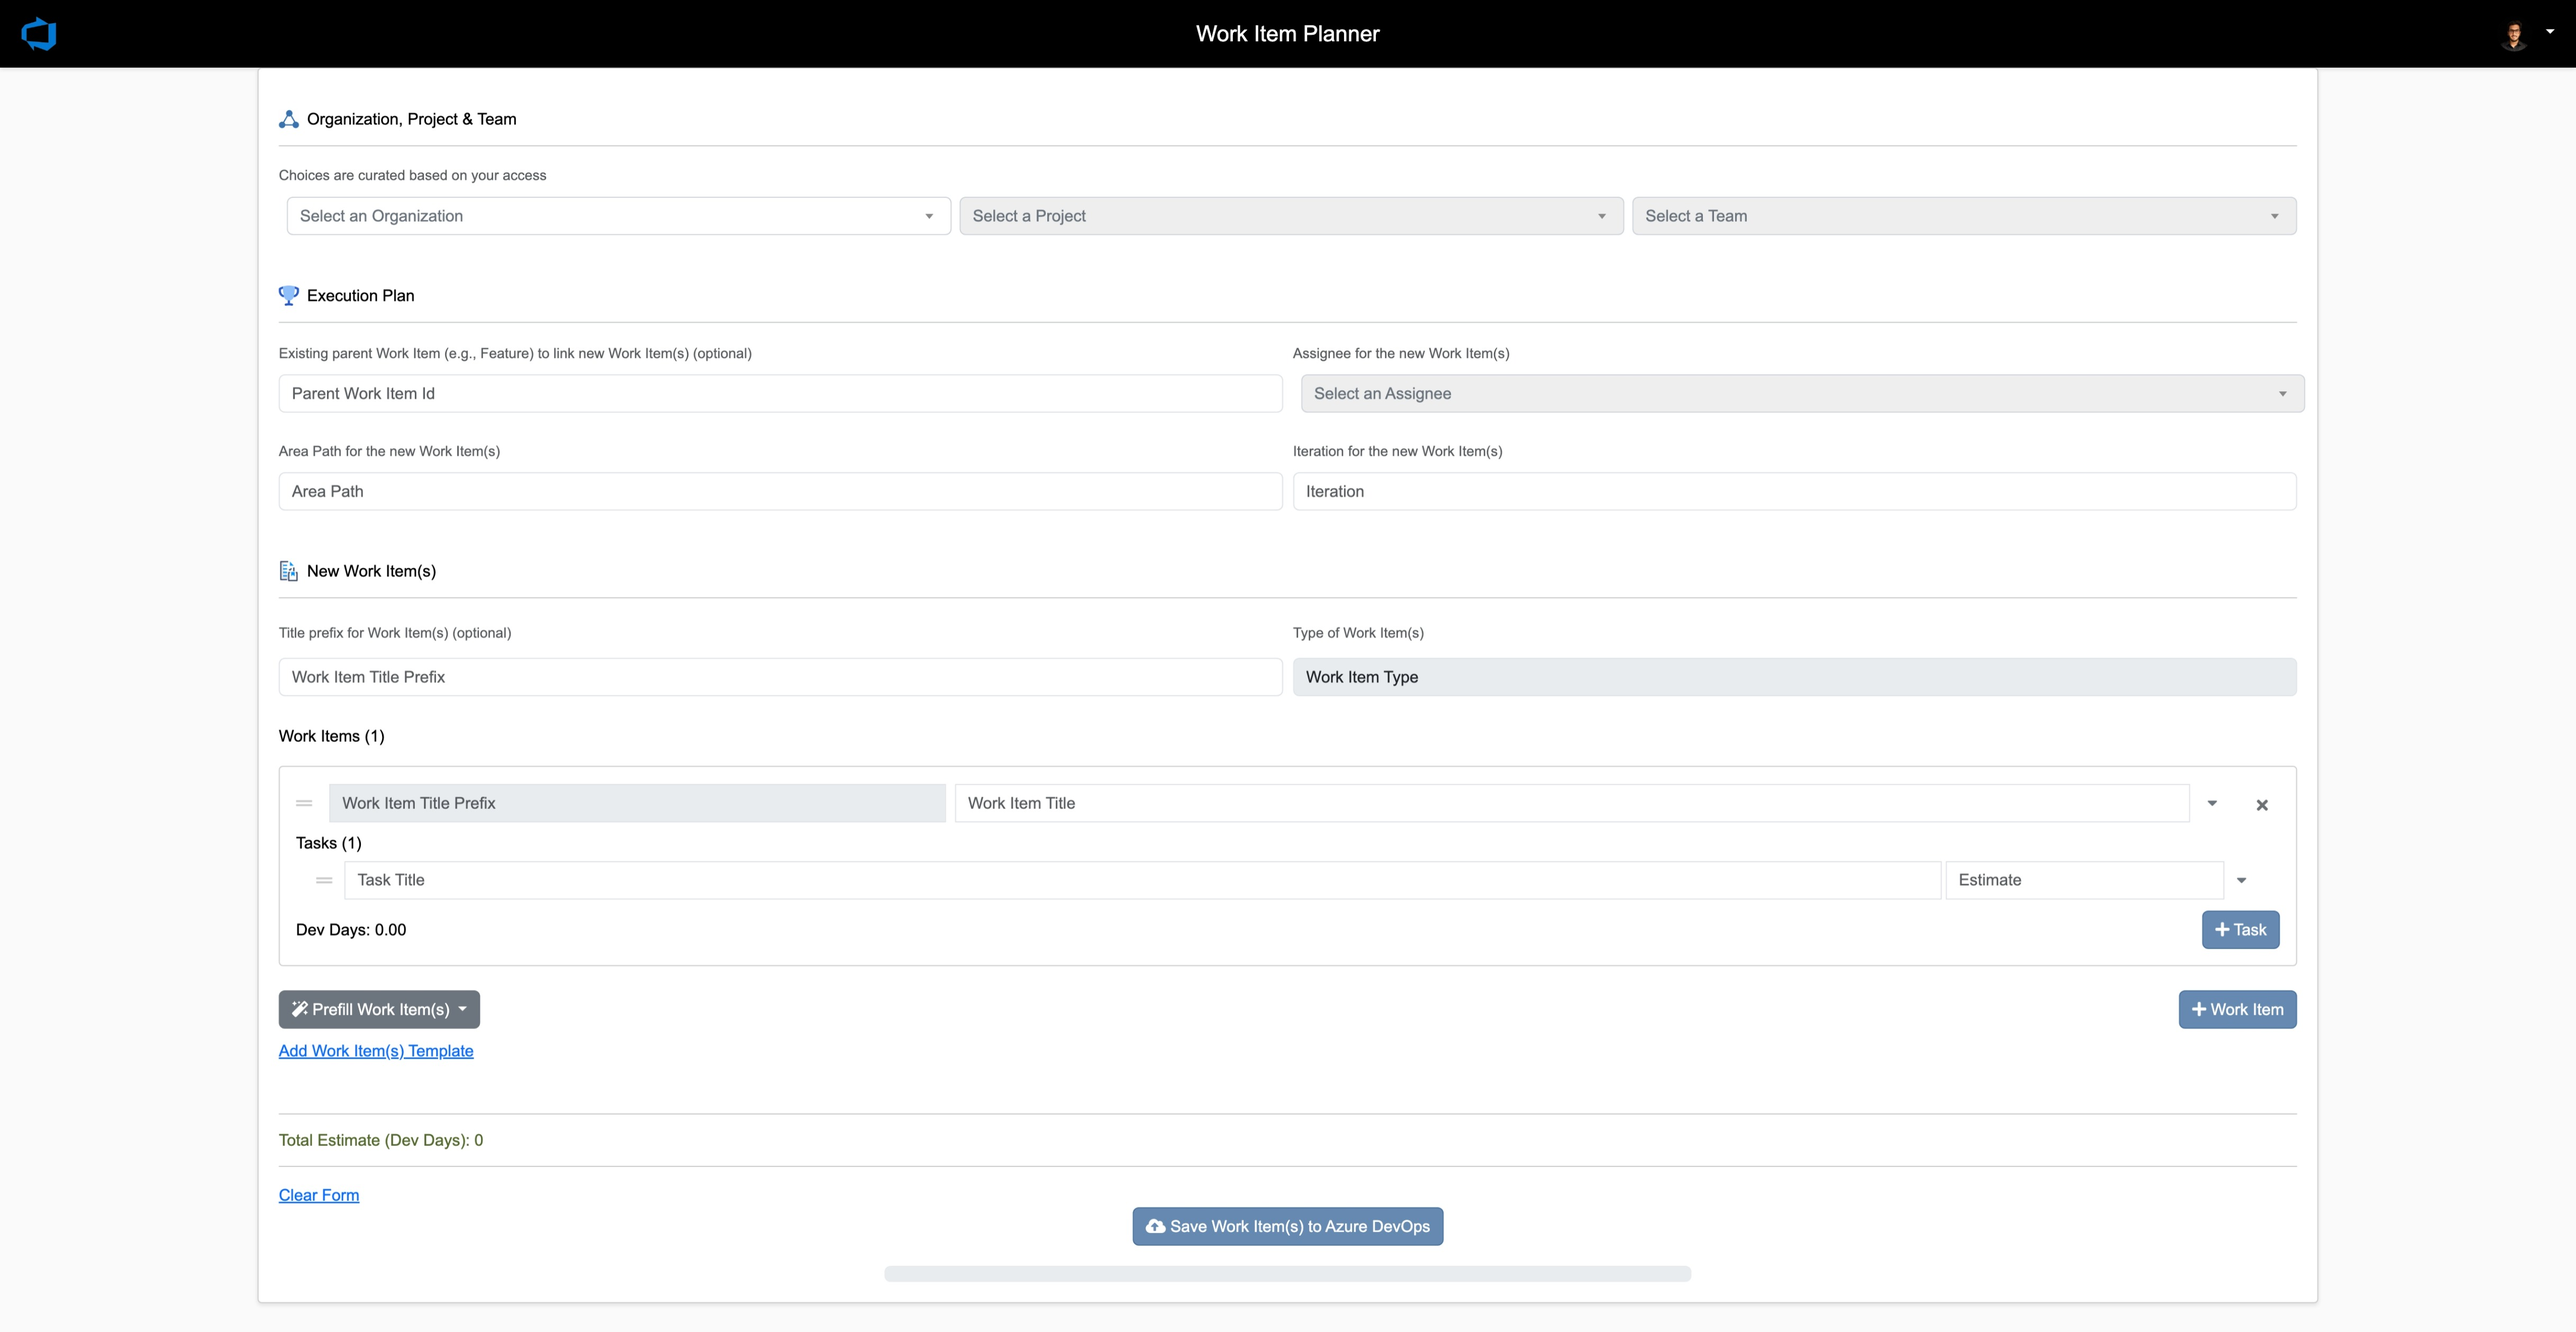
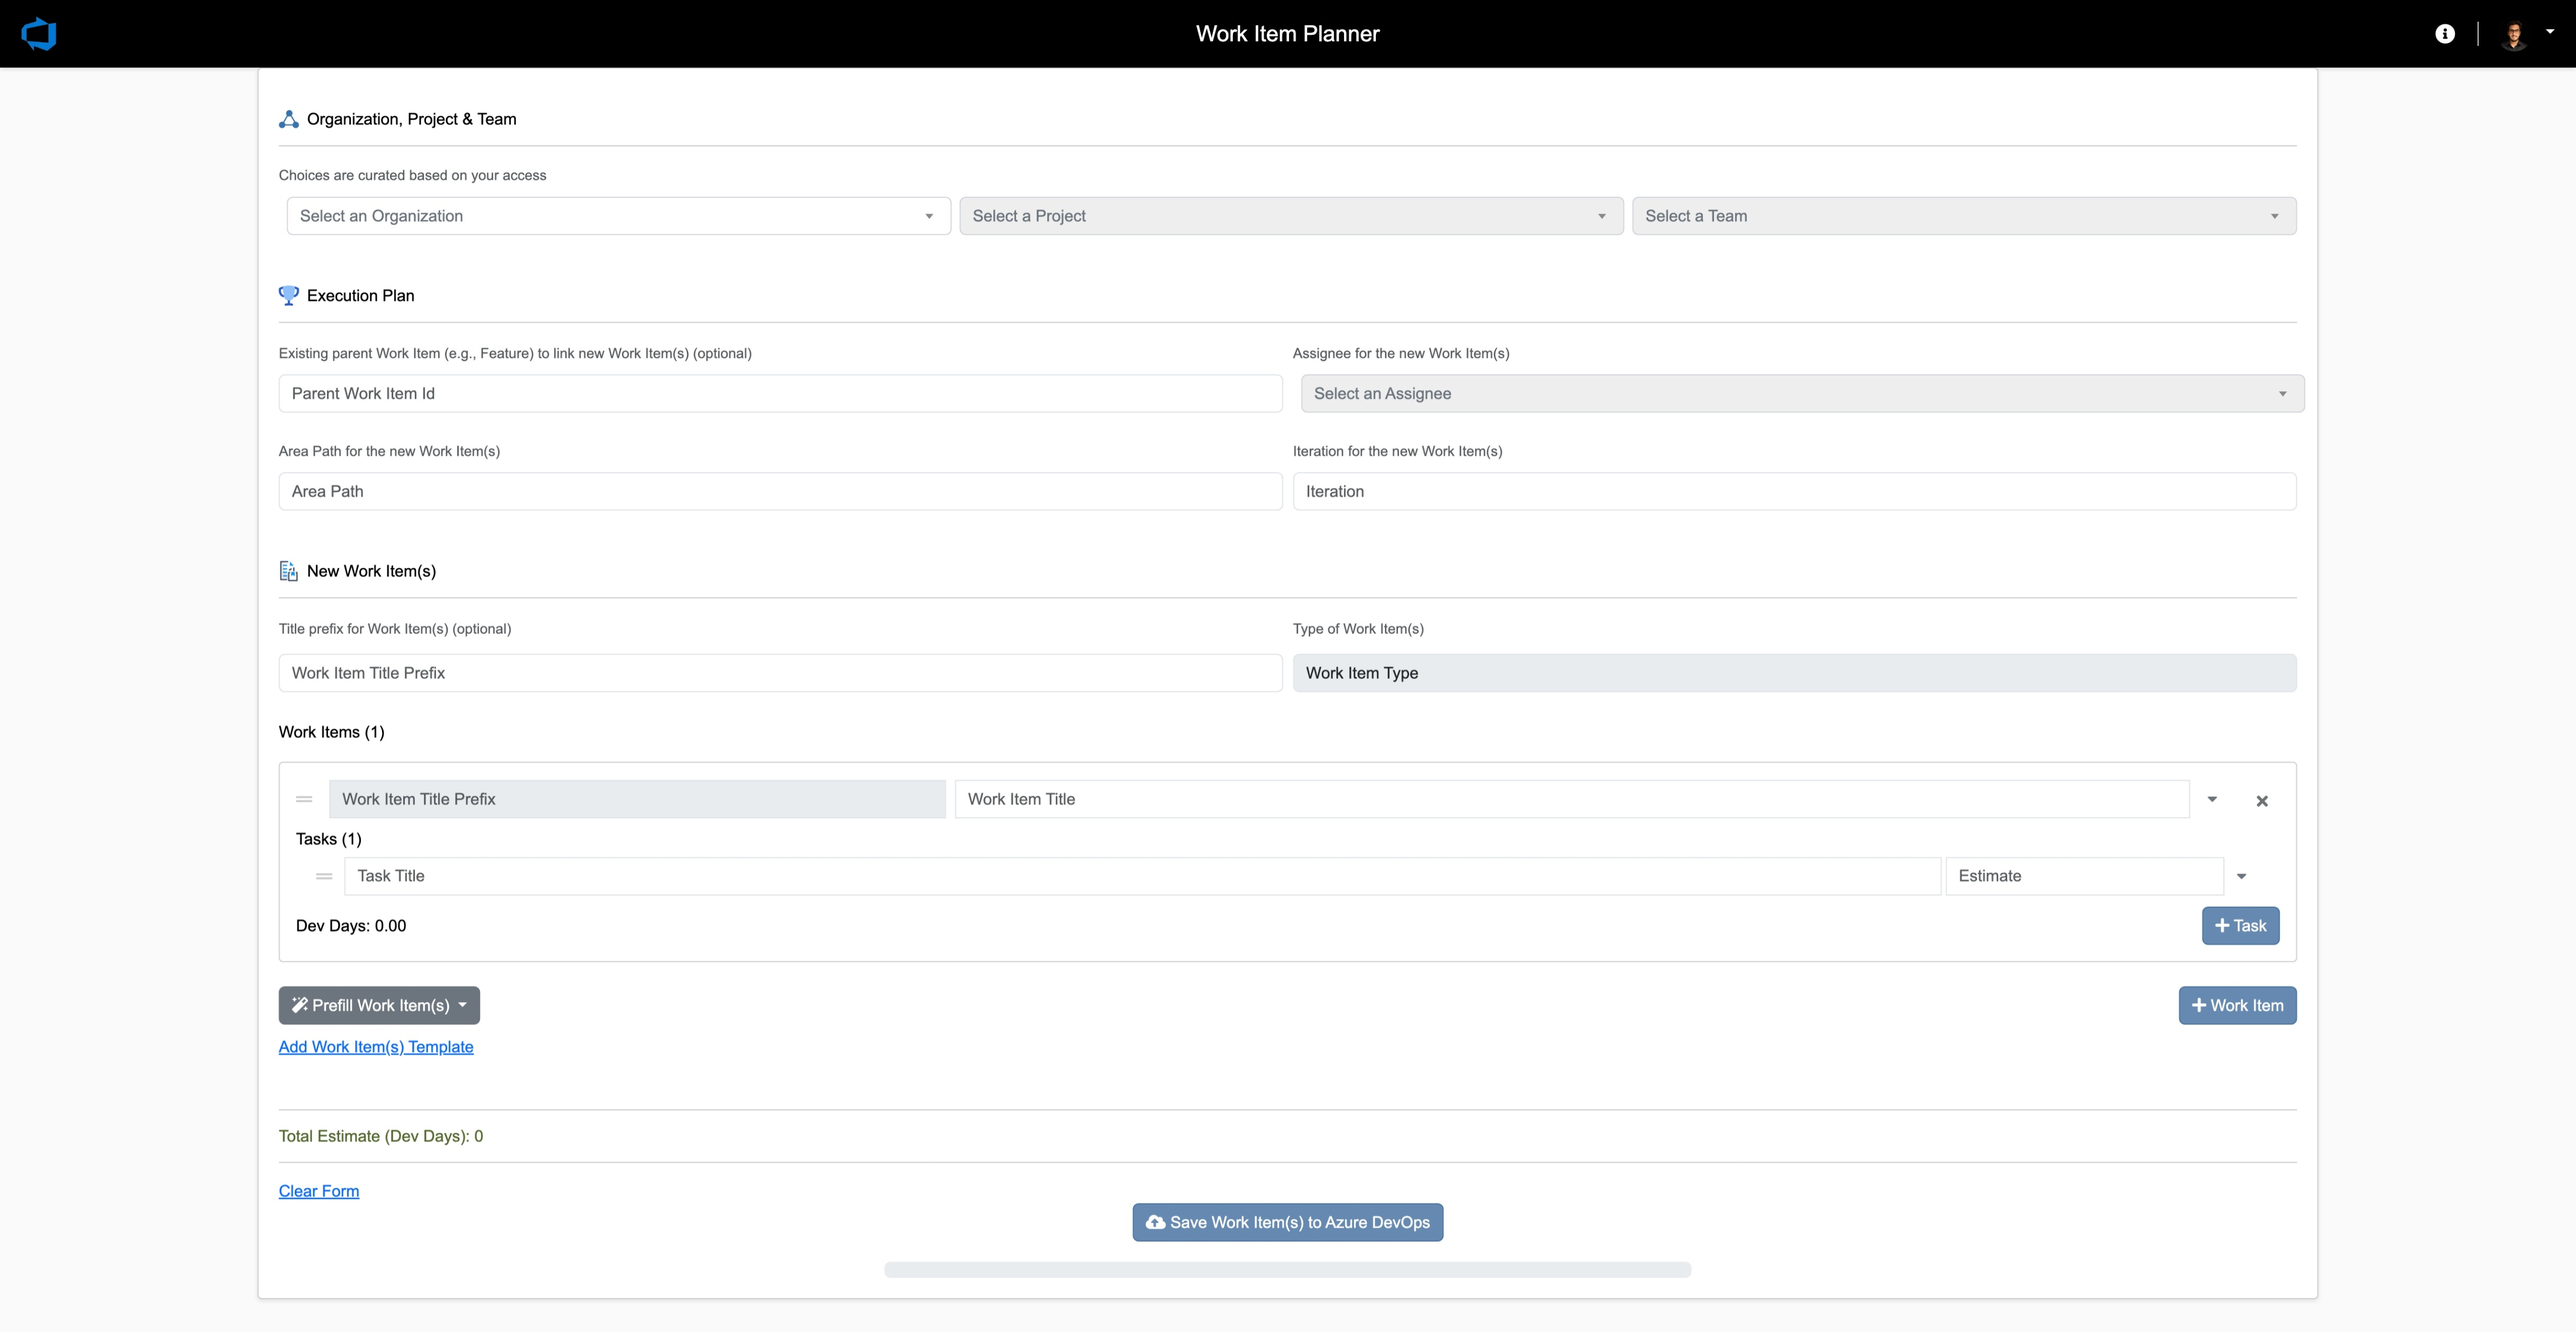
Improved FRE

diff --git a/public/scripts/firstRunGuide.js b/public/scripts/firstRunGuide.js
@@ -20,9 +20,23 @@
 
     // Public API (global) so main.js can trigger once data/population done
     window.FirstRunGuide = {
-        maybeStart: function () {
-            // Always show (ignores stored completion when ALWAYS_SHOW_TOUR)
-            setTimeout(runTour, 800);
+        /**
+         * Start the guide. Accepts optional { delay: ms } to defer start slightly.
+         * Defaults to immediate start (0ms) to avoid perceived lag after loading indicator disappears.
+         */
+        maybeStart: function (opts = {}) {
+            if (hasCompleted()) return; // Respect stored completion when ALWAYS_SHOW_TOUR is false
+            const delay = typeof opts.delay === 'number' ? opts.delay : 0;
+            if (delay <= 0) {
+                // Run on next animation frame for layout stability
+                if (window.requestAnimationFrame) {
+                    requestAnimationFrame(() => runTour());
+                } else {
+                    runTour();
+                }
+            } else {
+                setTimeout(runTour, delay);
+            }
         },
         reset: function () { localStorage.removeItem(STORAGE_KEY); }
     };
@@ -83,6 +97,11 @@
                 selector: '#deliverables-container .deliverable-item:first-of-type .task-item:first-of-type .task-title',
                 title: 'Tasks',
                 body: 'Add Tasks under this Work Item.'
+            },
+            {
+                selector: '#deliverables-container .deliverable-item:first-of-type .task-item:first-of-type .task-estimate',
+                title: 'Estimate',
+                body: 'Enter the effort estimate (e.g. in Dev Days or your team\'s chosen unit). Supports decimals (e.g. 0.5). Totals roll up automatically.'
             },
             {
                 selector: '#add-deliverable',

diff --git a/public/stylesheets/main.css b/public/stylesheets/main.css
@@ -967,3 +967,7 @@ body.plain-text-mode .task-description:focus {
 .select2-assignee-loading { display:flex; align-items:center; gap:8px; font-size:0.85rem; color:#555; }
 .select2-assignee-loading .spinner { width:16px; height:16px; border:2px solid #cfd3d7; border-top-color:#2563eb; border-radius:50%; animation: assigneeSpin .6s linear infinite; }
 @keyframes assigneeSpin { to { transform: rotate(360deg); } }
+
+/* Header separator between help icon and profile picture */
+.header-separator { display:inline-block; width:1px; height:24px; background:#cfd3d8; margin:0 4px; }
+@media (max-width:600px){ .header-separator { height:20px; } }

diff --git a/public/scripts/eventHandlers.js b/public/scripts/eventHandlers.js
@@ -710,3 +710,16 @@ $(".logout-link").on("click", function (event) {
   event.preventDefault(); // Prevent the link from navigating to the href
   logout();
 });
+
+// Help / Guided Tour relaunch
+$(document).on('click', '#help-tour-btn', function(e) {
+  e.preventDefault();
+  try {
+    if (window.FirstRunGuide) {
+      if (typeof window.FirstRunGuide.reset === 'function') window.FirstRunGuide.reset();
+      if (typeof window.FirstRunGuide.maybeStart === 'function') window.FirstRunGuide.maybeStart({ delay: 0 });
+    }
+  } catch(err) {
+    console.warn('Failed to launch guided tour', err);
+  }
+});

diff --git a/public/scripts/main.js b/public/scripts/main.js
@@ -92,9 +92,9 @@ async function onSuccessLogin() {
   initializeSelect2Dropdowns();
 
   hideLoadingIndicator();
-  // Trigger first run guide (if not completed before)
+  // Trigger first run guide ASAP (after layout); retry once if initial element not yet available
   if (window.FirstRunGuide && typeof window.FirstRunGuide.maybeStart === 'function') {
-    window.FirstRunGuide.maybeStart();
+    window.FirstRunGuide.maybeStart({ delay: 0 });
   }
 }
 
